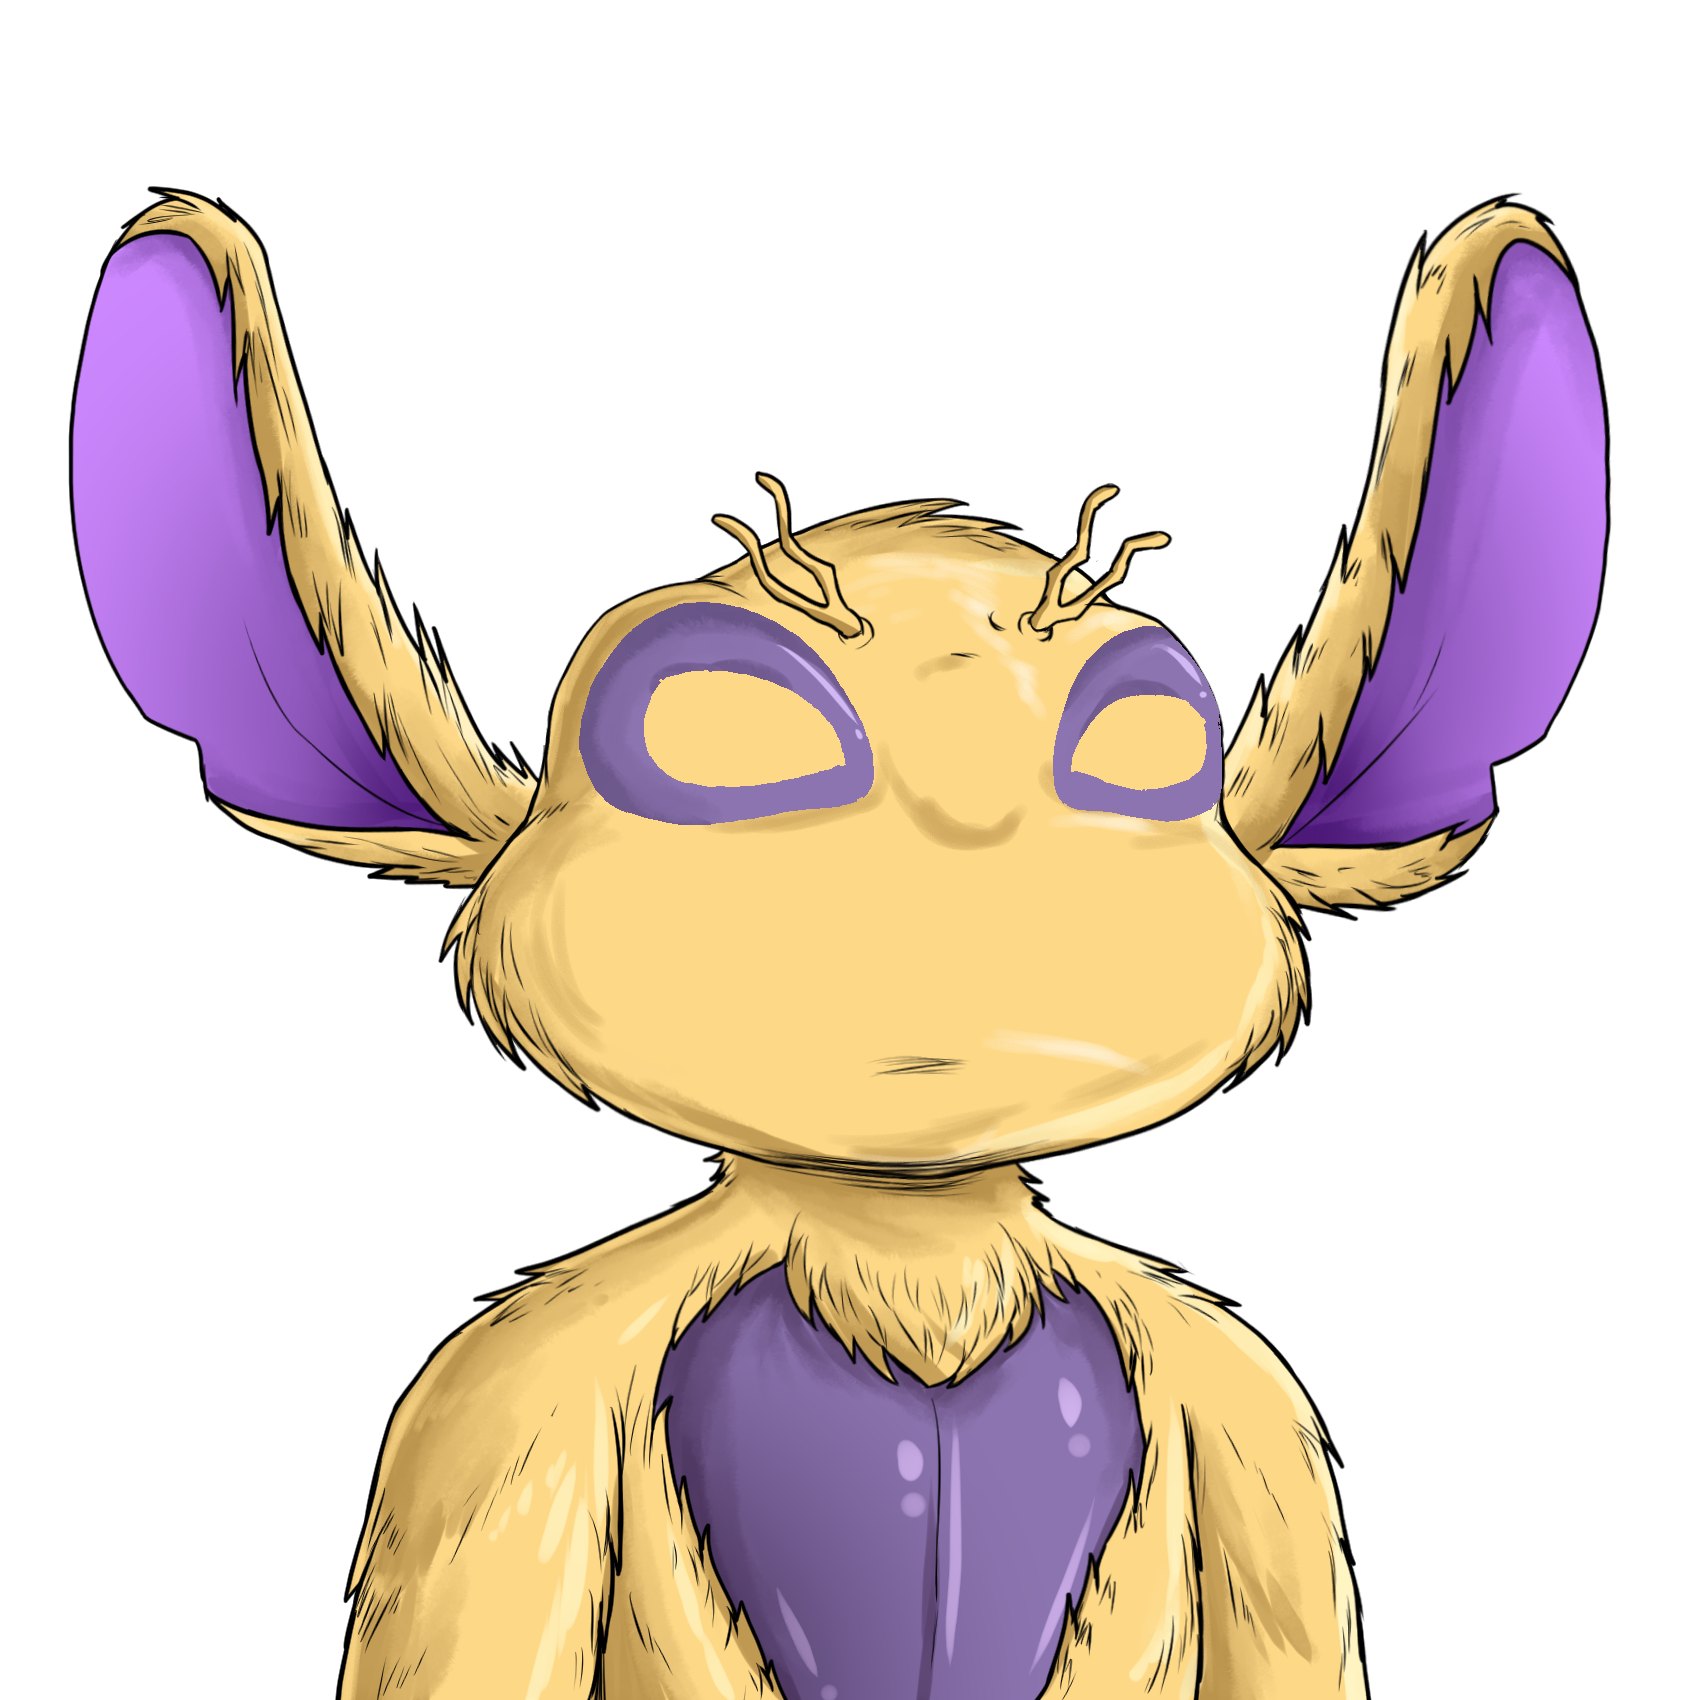
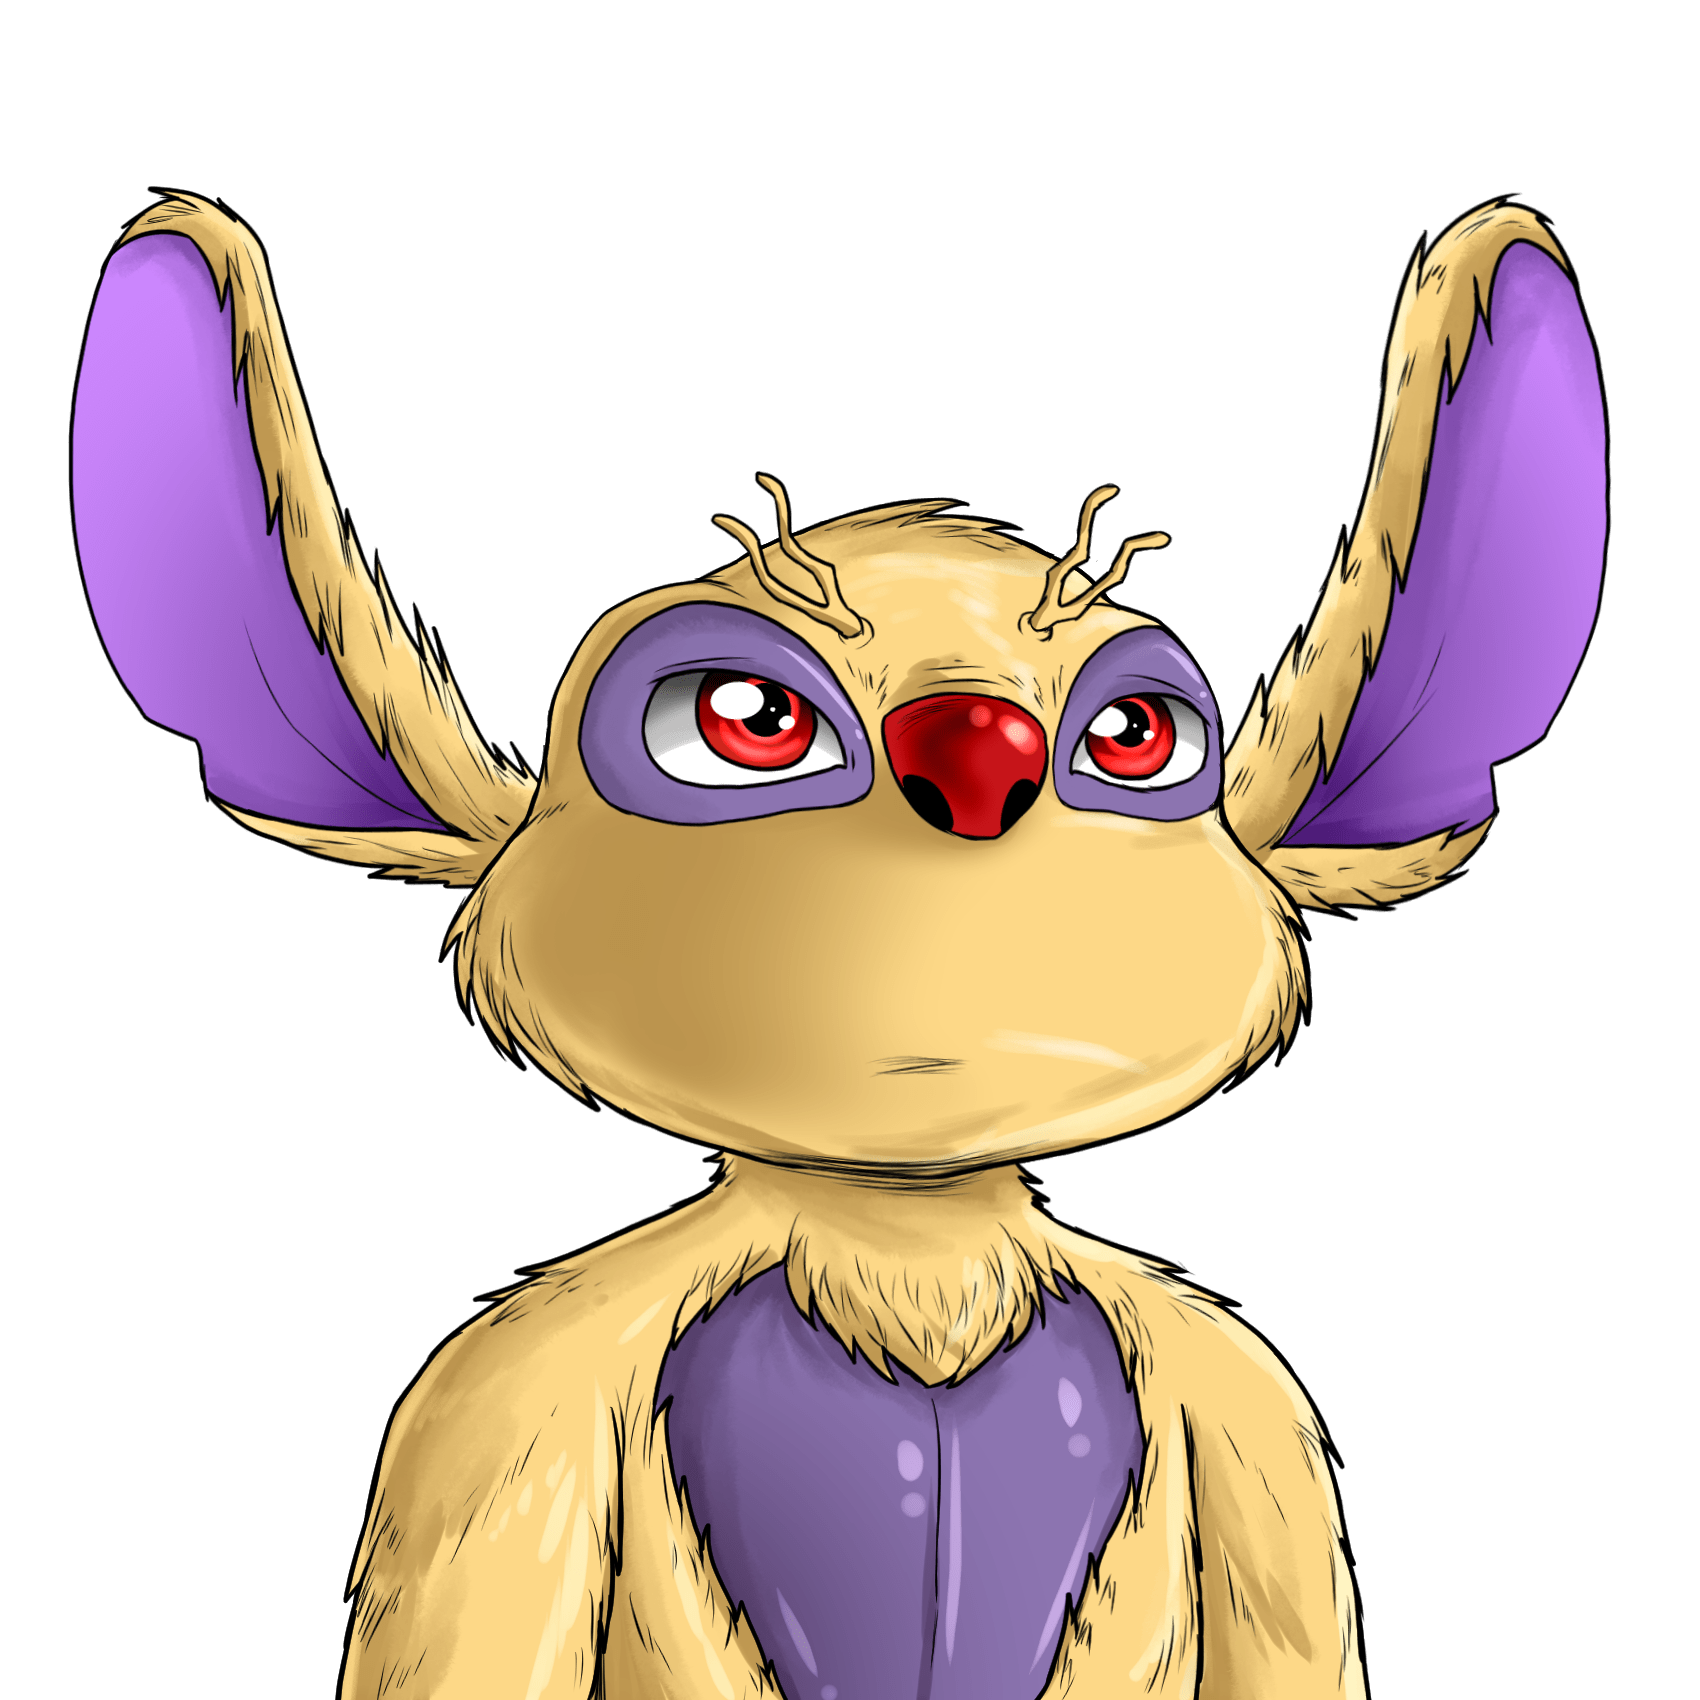
done

diff --git a/src/layouts/Marketplace/Gallery/Gallery.module.css b/src/layouts/Marketplace/Gallery/Gallery.module.css
@@ -163,7 +163,7 @@
   left: 0;
   width: 100%;
   height: 100%;
-  z-index: 11;
+  z-index: 12;
   /* background-color: red; */
 }
 .mouth {
@@ -172,7 +172,7 @@
   left: 0;
   width: 100%;
   height: 100%;
-  z-index: 10;
+  z-index: 15;
 }
 .nose {
   position: absolute;

diff --git a/src/layouts/Marketplace/Gallery/Gallery.js b/src/layouts/Marketplace/Gallery/Gallery.js
@@ -140,7 +140,7 @@ function Gallery() {
     furItem: default_fur,
     clothe: "",
     ears: "",
-    eyes: default_eyes,
+    eyes: "",
     head: "",
     mouth: defaultMouth,
     nose: nose,
